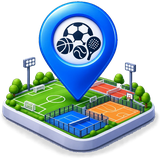
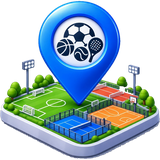
feat(web): inicio en escritorio con filas estilo Airbnb y nuevo ícono de 'Cerca de mí'
- Escritorio (lg+): contenido a lo ancho con 'Explora por deporte y
  ciudad' (fotos con nombre), 'Para jugar hoy', filas por ciudad y 'Las
  mejor calificadas' en tarjetas con corazón de favoritas y 'Favorita entre
  jugadores'; hasta 7 por fila con flechas. Favoritas en el navegador.
- Celular y tablet siguen con el carrusel y la lista de la app.
- Ícono de 'Cerca de mí' sin halo, para fondos claros y oscuros.

diff --git a/Frontend/src/app/(public)/HomeClient.tsx b/Frontend/src/app/(public)/HomeClient.tsx
@@ -7,10 +7,11 @@ import { toast } from 'sonner';
 import FaqAccordion from '@/components/ui/FaqAccordion';
 import HeroSearch from '@/components/home/HeroSearch';
 import MobileSearchTrigger from '@/components/home/MobileSearchTrigger';
-import { TarjetaGrande, FilaCancha } from '@/components/courts/TarjetasCancha';
+import { TarjetaGrande, FilaCancha, TarjetaAirbnb, TarjetaCategoria } from '@/components/courts/TarjetasCancha';
+import { useFavoritas } from '@/hooks/useFavoritas';
 import { SEARCH_ANCHOR_ID } from '@/hooks/useSearchDock';
 import { courtsApi } from '@/lib/api/courts.api';
-import { SPORT_ICONO } from '@/lib/constants';
+import { SPORT_ICONO, SPORTS } from '@/lib/constants';
 import type { Court } from '@/types';
 
 /*
@@ -111,6 +112,41 @@ export default function HomeClient({ stats }: { stats: PublicStats }) {
     [canchas],
   );
   const consulta = pestana && pestana !== 'cerca' ? `?sport=${pestana}` : '';
+
+  /* ── Datos del bloque de escritorio (estilo Airbnb) ── */
+  const { ids: favoritas, esFavorita, alternar } = useFavoritas();
+  const guardadas = useMemo(() => canchas.filter((c) => favoritas.includes(c._id)), [canchas, favoritas]);
+  const porCiudad = useMemo(() => {
+    const grupos = new Map<string, Court[]>();
+    for (const c of visibles) {
+      const ciudad = c.location?.city;
+      if (ciudad) grupos.set(ciudad, [...(grupos.get(ciudad) ?? []), c]);
+    }
+    return Array.from(grupos.entries()).sort((a, b) => b[1].length - a[1].length);
+  }, [visibles]);
+  const mejores = useMemo(
+    () => [...visibles].filter((c) => c.totalReviews > 0).sort((a, b) => b.averageRating - a.averageRating).slice(0, 14),
+    [visibles],
+  );
+  /* "Explora por deporte y ciudad": los deportes con su foto y las ciudades
+     con la foto de una de sus canchas. */
+  const categorias = useMemo(() => {
+    const ciudades = new Map<string, string>();
+    for (const c of canchas) {
+      const ciudad = c.location?.city;
+      if (ciudad && !ciudades.has(ciudad)) ciudades.set(ciudad, c.photos?.[0] || '');
+    }
+    return [
+      ...SPORTS.map((sp) => ({ href: `/empresas?sport=${sp.key}`, foto: sp.img, titulo: sp.label })),
+      ...Array.from(ciudades.entries()).filter(([, f]) => f).slice(0, 8).map(([ciudad, foto]) => ({
+        href: `/empresas?city=${encodeURIComponent(ciudad)}`, foto, titulo: `Canchas en ${ciudad}`,
+      })),
+    ];
+  }, [canchas]);
+  const tarjeta = (c: Court) => (
+    <TarjetaAirbnb key={c._id} court={c} favorita={esFavorita(c._id)} onFavorita={() => alternar(c._id)} />
+  );
+  const nombreDeporte = pestana && pestana !== 'cerca' ? PESTANAS.find((x) => x.key === pestana)?.label.toLowerCase() : undefined;
   const deporteBuscador = pestana && pestana !== 'cerca' ? pestana : '';
 
   /* Posición del subrayado de la pestaña activa. */
@@ -181,8 +217,65 @@ export default function HomeClient({ stats }: { stats: PublicStats }) {
         </div>
       </section>
 
-      {/* ── Debajo: el diseño de la app (carrusel y lista) ────────── */}
-      <div className="w-full pb-16">
+      {/* ── Escritorio: filas estilo Airbnb a lo ancho ────────────── */}
+      <div className="hidden bg-white pb-16 pt-8 lg:block">
+        <div className="mx-auto max-w-[1880px] space-y-11 px-10 xl:px-14">
+          {categorias.length > 0 && (
+            <FilaAncha titulo="Explora por deporte y ciudad" href="/empresas" columnas="cat">
+              {categorias.map((c) => <TarjetaCategoria key={c.href} {...c} />)}
+            </FilaAncha>
+          )}
+          {guardadas.length > 0 && !pestana && (
+            <FilaAncha titulo="Tus favoritas">{guardadas.map(tarjeta)}</FilaAncha>
+          )}
+          {visibles.length > 0 ? (
+            <FilaAncha
+              titulo={pestana === 'cerca' ? 'Canchas cerca de ti' : `Canchas${nombreDeporte ? ` de ${nombreDeporte}` : ''} para jugar hoy`}
+              href={`/empresas${consulta}`}
+            >
+              {visibles.slice(0, 14).map(tarjeta)}
+            </FilaAncha>
+          ) : !cargando && (
+            <p className="rounded-2xl border border-gray-200 px-6 py-10 text-center text-gray-500">Aún no hay canchas de este deporte.</p>
+          )}
+          {pestana !== 'cerca' && porCiudad.slice(0, 2).filter(([, l]) => l.length >= 2).map(([ciudad, lista]) => (
+            <FilaAncha
+              key={ciudad}
+              titulo={`Canchas${nombreDeporte ? ` de ${nombreDeporte}` : ''} en ${ciudad}`}
+              href={`/empresas?city=${encodeURIComponent(ciudad)}${pestana ? `&sport=${pestana}` : ''}`}
+            >
+              {lista.map(tarjeta)}
+            </FilaAncha>
+          ))}
+          {mejores.length > 0 && pestana !== 'cerca' && (
+            <FilaAncha titulo="Las mejor calificadas" href={`/empresas${consulta}`}>{mejores.map(tarjeta)}</FilaAncha>
+          )}
+
+          <Link href="/para-clubes" className="group flex items-center gap-4 rounded-3xl bg-gray-900 p-7">
+            <div className="min-w-0 flex-1">
+              <p className="text-lg font-bold text-white">¿Tienes una cancha?</p>
+              <p className="mt-1 text-sm text-gray-400">Recibe reservas pagadas en línea, sin mensualidad.</p>
+            </div>
+            <span className="shrink-0 rounded-full bg-lime-400 px-5 py-2.5 text-sm font-bold text-gray-900 transition-transform group-hover:scale-105">
+              Publica tu cancha
+            </span>
+          </Link>
+
+          <section>
+            <h2 className="text-[22px] font-semibold text-gray-900">Preguntas frecuentes</h2>
+            <FaqAccordion
+              items={FAQ}
+              className="mt-4 grid grid-cols-2 items-start gap-3"
+              itemClassName="w-full text-left bg-white rounded-2xl p-5 border border-gray-200 hover:border-gray-400"
+              openItemClassName="border-gray-900"
+              questionClassName="font-semibold text-gray-900"
+            />
+          </section>
+        </div>
+      </div>
+
+      {/* ── Celular y tablet: el diseño de la app (carrusel y lista) ── */}
+      <div className="w-full pb-16 lg:hidden">
         {/* El carrusel corre de borde a borde de la ventana: en pantallas
             anchas la primera tarjeta se alinea con el contenido y las demás
             se pierden en el borde de la ventana, no a mitad de página. */}
@@ -320,6 +413,70 @@ function Carrusel({ titulo, href, children }: { titulo: string; href?: string; c
       >
         {children}
         <div className="w-1 shrink-0" />
+      </div>
+    </section>
+  );
+}
+
+/** Fila estilo Airbnb: título con flecha, flechas a la derecha y tarjetas que
+ *  se deslizan de lado. Siete por fila en pantalla grande. */
+function FilaAncha({
+  titulo, href, columnas = 'tarjeta', children,
+}: { titulo: string; href?: string; columnas?: 'tarjeta' | 'cat'; children: React.ReactNode }) {
+  const ref = useRef<HTMLDivElement>(null);
+  const [bordes, setBordes] = useState({ inicio: true, fin: false });
+  const leer = () => {
+    const el = ref.current;
+    if (!el) return;
+    setBordes({ inicio: el.scrollLeft < 8, fin: el.scrollLeft + el.clientWidth >= el.scrollWidth - 8 });
+  };
+  useEffect(() => {
+    leer();
+    window.addEventListener('resize', leer);
+    return () => window.removeEventListener('resize', leer);
+  }, [children]);
+  const mover = (dir: 1 | -1) => {
+    const el = ref.current;
+    if (el) el.scrollBy({ left: dir * el.clientWidth, behavior: 'smooth' });
+  };
+  const cols = columnas === 'cat'
+    ? 'auto-cols-[calc((100%-4*0.75rem)/5)] xl:auto-cols-[calc((100%-6*0.75rem)/7)] 2xl:auto-cols-[calc((100%-8*0.75rem)/9)]'
+    : 'auto-cols-[calc((100%-3*0.75rem)/4)] xl:auto-cols-[calc((100%-4*0.75rem)/5)] 2xl:auto-cols-[calc((100%-6*0.75rem)/7)]';
+
+  return (
+    <section>
+      <div className="flex items-center justify-between gap-4">
+        {href ? (
+          <Link href={href} className="group inline-flex min-w-0 items-center gap-2">
+            <h2 className="truncate text-[22px] font-semibold text-gray-900">{titulo}</h2>
+            <span className="grid h-7 w-7 shrink-0 place-items-center rounded-full bg-gray-100 text-gray-900 transition-colors group-hover:bg-gray-900 group-hover:text-white">
+              <ChevronRight className="h-4 w-4" />
+            </span>
+          </Link>
+        ) : (
+          <h2 className="truncate text-[22px] font-semibold text-gray-900">{titulo}</h2>
+        )}
+        <div className="flex shrink-0 gap-2">
+          {([-1, 1] as const).map((d) => (
+            <button
+              key={d}
+              type="button"
+              aria-label={d < 0 ? 'Anteriores' : 'Siguientes'}
+              disabled={d < 0 ? bordes.inicio : bordes.fin}
+              onClick={() => mover(d)}
+              className="grid h-8 w-8 place-items-center rounded-full bg-gray-100 text-gray-900 transition hover:bg-gray-200 hover:shadow-sm disabled:cursor-not-allowed disabled:opacity-40 disabled:hover:bg-gray-100 disabled:hover:shadow-none"
+            >
+              {d < 0 ? <ChevronLeft className="h-4 w-4" /> : <ChevronRight className="h-4 w-4" />}
+            </button>
+          ))}
+        </div>
+      </div>
+      <div
+        ref={ref}
+        onScroll={leer}
+        className={`mt-4 grid grid-flow-col gap-3 overflow-x-auto snap-x snap-mandatory [scrollbar-width:none] [&::-webkit-scrollbar]:hidden [&>*]:snap-start ${cols}`}
+      >
+        {children}
       </div>
     </section>
   );

diff --git a/Frontend/src/components/courts/TarjetasCancha.tsx b/Frontend/src/components/courts/TarjetasCancha.tsx
@@ -1,5 +1,5 @@
 import Link from 'next/link';
-import { MapPin, Star, ChevronRight } from 'lucide-react';
+import { MapPin, Star, ChevronRight, Heart } from 'lucide-react';
 import type { Court } from '@/types';
 import { getSport } from '@/lib/constants';
 import SportIcon from '@/components/ui/SportIcon';
@@ -112,3 +112,62 @@ export function FilaCancha({ court }: { court: Court }) {
   );
 }
 
+
+/**
+ * Tarjeta de las filas del inicio en escritorio, estilo Airbnb: foto casi
+ * cuadrada con el corazón de favoritas y, si la cancha es de las mejor
+ * puntuadas, "Favorita entre jugadores". Debajo, nombre, deporte · ciudad y
+ * precio con la nota.
+ */
+export function TarjetaAirbnb({
+  court, favorita, onFavorita,
+}: {
+  court: Court;
+  favorita: boolean;
+  onFavorita: () => void;
+}) {
+  const sport = getSport(court.sport);
+  const foto = court.photos?.[0] || sport.img;
+  const destacada = court.averageRating >= 4.6 && court.totalReviews >= 4;
+  return (
+    <div className="group relative">
+      <Link href={`/canchas/${court._id}`} className="block rounded-2xl outline-none focus-visible:ring-4 focus-visible:ring-green-500/30">
+        <div className="relative aspect-[20/19] overflow-hidden rounded-2xl bg-gray-100">
+          <FotoRemota src={foto} alt={court.name} sizes="(max-width: 1280px) 20vw, 260px" className="object-cover transition-transform duration-500 group-hover:scale-105" />
+          {destacada && (
+            <span className="absolute left-3 top-3 max-w-[calc(100%-3.5rem)] truncate rounded-full bg-white/95 px-3 py-1 text-xs font-semibold text-gray-900 shadow-sm">
+              Favorita entre jugadores
+            </span>
+          )}
+        </div>
+        <p className="mt-2.5 truncate text-[15px] font-semibold text-gray-900">{court.name}</p>
+        <p className="truncate text-sm text-gray-500">{sport.label} · {court.location.city}</p>
+        <p className="text-sm text-gray-500">
+          {precio(court.pricePerHour)} COP por hora
+          {court.averageRating > 0 && <> · <Star className="mb-0.5 inline h-3 w-3 fill-gray-900 text-gray-900" /> {court.averageRating.toFixed(2).replace(/0$/, '')}</>}
+        </p>
+      </Link>
+      <button
+        type="button"
+        onClick={onFavorita}
+        aria-label={favorita ? 'Quitar de favoritas' : 'Guardar en favoritas'}
+        aria-pressed={favorita}
+        className="absolute right-3 top-3 grid h-8 w-8 place-items-center transition-transform hover:scale-110 active:scale-90"
+      >
+        <Heart className={`h-6 w-6 drop-shadow-[0_1px_2px_rgba(0,0,0,0.35)] ${favorita ? 'fill-red-500 text-white' : 'fill-black/30 text-white'}`} strokeWidth={2} />
+      </button>
+    </div>
+  );
+}
+
+/** Foto con etiqueta debajo: la fila "Explora por deporte y ciudad". */
+export function TarjetaCategoria({ href, foto, titulo }: { href: string; foto: string; titulo: string }) {
+  return (
+    <Link href={href} className="group block outline-none">
+      <div className="relative aspect-[21/20] overflow-hidden rounded-2xl bg-gray-100">
+        <FotoRemota src={foto} alt={titulo} sizes="200px" className="object-cover transition-transform duration-500 group-hover:scale-105" />
+      </div>
+      <p className="mt-2.5 truncate text-sm font-medium text-gray-900">{titulo}</p>
+    </Link>
+  );
+}

diff --git a/Frontend/src/hooks/useFavoritas.ts b/Frontend/src/hooks/useFavoritas.ts
@@ -1,0 +1,47 @@
+'use client';
+
+import { useCallback, useEffect, useState } from 'react';
+
+/* Canchas favoritas del visitante, guardadas en este navegador (como en la
+   app, que las guarda en el teléfono). No necesita cuenta. */
+
+const CLAVE = 'rtc-favoritas';
+const EVENTO = 'rtc-favoritas-cambio';
+
+function leer(): string[] {
+  try {
+    const v = JSON.parse(localStorage.getItem(CLAVE) ?? '[]');
+    return Array.isArray(v) ? v.filter((x) => typeof x === 'string') : [];
+  } catch {
+    return [];
+  }
+}
+
+export function useFavoritas() {
+  const [ids, setIds] = useState<string[]>([]);
+
+  useEffect(() => {
+    const sync = () => setIds(leer());
+    sync();
+    window.addEventListener(EVENTO, sync);
+    window.addEventListener('storage', sync);
+    return () => {
+      window.removeEventListener(EVENTO, sync);
+      window.removeEventListener('storage', sync);
+    };
+  }, []);
+
+  const alternar = useCallback((id: string) => {
+    const actual = leer();
+    const nuevo = actual.includes(id) ? actual.filter((x) => x !== id) : [id, ...actual];
+    try {
+      localStorage.setItem(CLAVE, JSON.stringify(nuevo));
+    } catch {
+      /* Navegación privada o almacenamiento bloqueado: queda solo en memoria. */
+    }
+    setIds(nuevo);
+    window.dispatchEvent(new Event(EVENTO));
+  }, []);
+
+  return { ids, esFavorita: (id: string) => ids.includes(id), alternar };
+}
